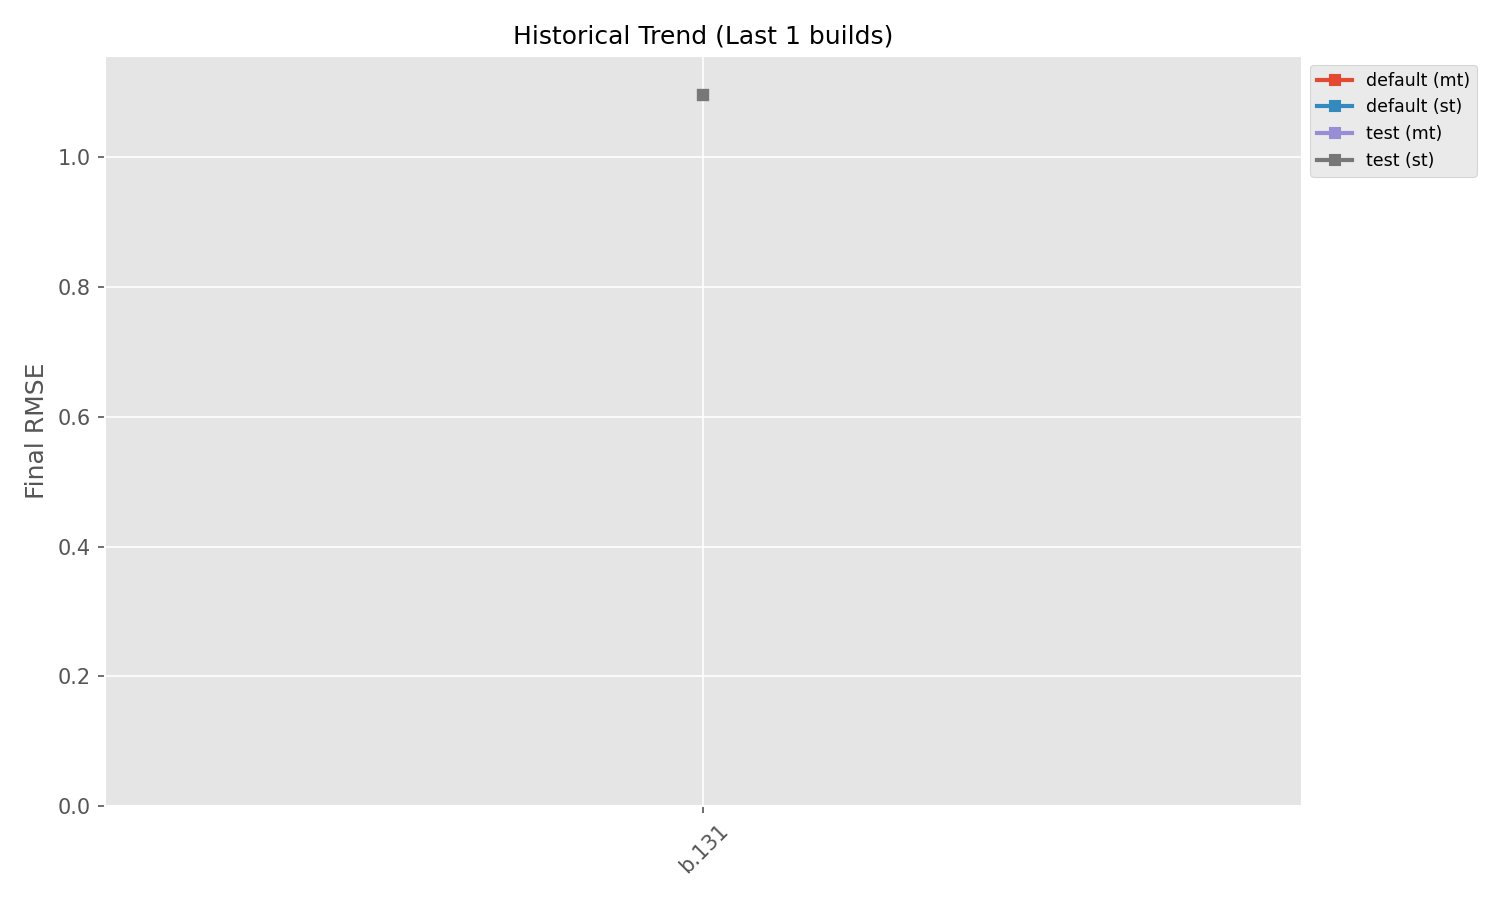
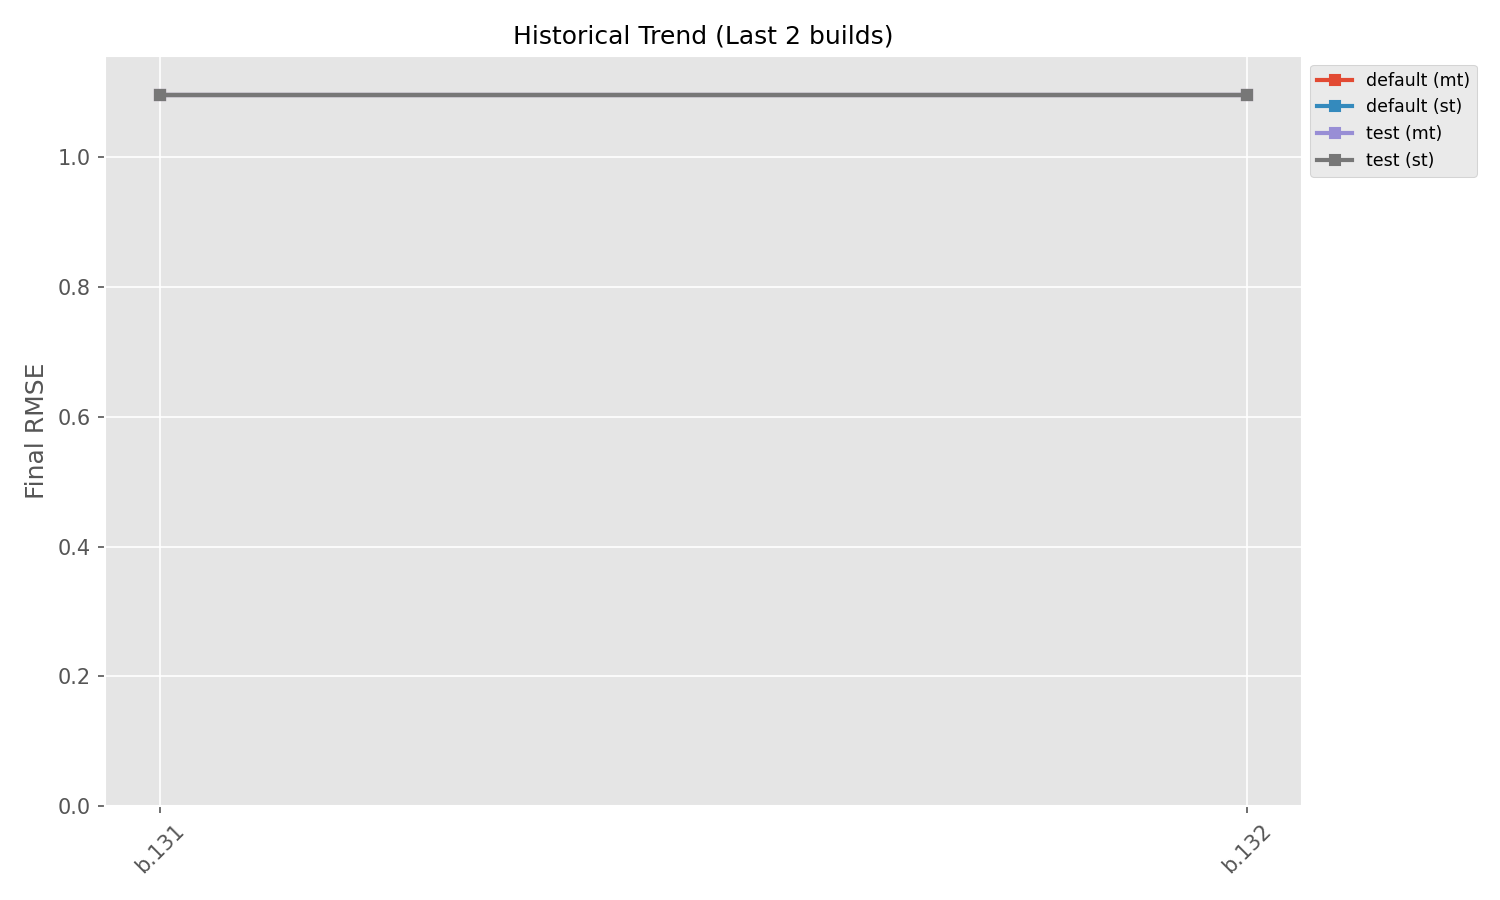
Benchmark Update: 0.1.0-build.132

diff --git a/README.md b/README.md
@@ -3,10 +3,10 @@
 ## Summary Results
 | Scene | Variant | Final RMSE | Date |
 |---|---|---|---|
-| default | **st** | 1.09610 | 2026-02-23T23:30:40.283688 |
-| default | **mt** | 1.09610 | 2026-02-23T23:30:40.283688 |
-| test | **mt** | 1.09610 | 2026-02-23T23:30:40.283688 |
-| test | **st** | 1.09610 | 2026-02-23T23:30:40.283688 |
+| default | **st** | 1.09610 | 2026-02-23T23:38:46.107775 |
+| default | **mt** | 1.09610 | 2026-02-23T23:38:46.107775 |
+| test | **mt** | 1.09610 | 2026-02-23T23:38:46.107775 |
+| test | **st** | 1.09610 | 2026-02-23T23:38:46.107775 |
 
 
 ## Historical Trend
@@ -40,4 +40,4 @@
 
 
 ---
-*last updated: 2026-02-23T23:30:40.283688 (commit: 0dccd405)*
+*last updated: 2026-02-23T23:38:46.107775 (commit: 3e1d96b6)*
